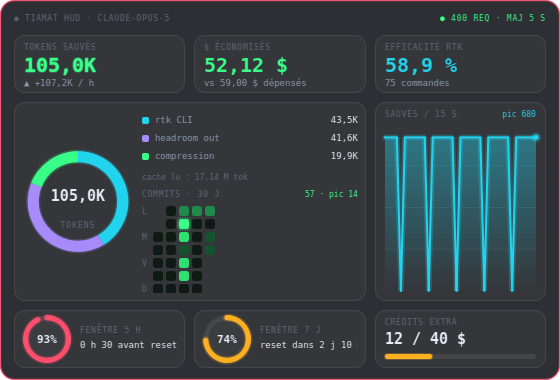
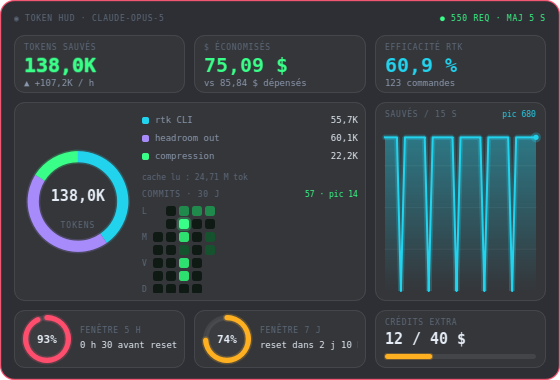
♻ refactor: renomme le paquet en token-hud
Module token_hud, script token-hud, QSettings token-hud/hud et libellé
« TOKEN HUD » dans l'interface. Captures et gif régénérés en conséquence,
README réécrit avec titres emojisés.

diff --git a/token_hud/hud.py b/token_hud/hud.py
@@ -49,7 +49,7 @@ class _Header(QWidget):
         super().__init__(parent)
         self._right = "connexion…"
         self._right_color = theme.DIM2
-        self._left = "◉ tiamat hud"
+        self._left = "◉ token hud"
         self.setFixedHeight(16)
 
     def set_status(self, left: str, right: str, color: QColor) -> None:
@@ -133,7 +133,7 @@ class DashboardView(QWidget):
         model = snap.headroom.model or "claude"
         live = f"{snap.headroom.requests} req · maj 5 s" if snap.headroom.ok else "sources indisponibles"
         self.header.set_status(
-            f"◉ tiamat hud · {model}", f"● {live}",
+            f"◉ token hud · {model}", f"● {live}",
             theme.GREEN if snap.headroom.ok else theme.RED,
         )
 
@@ -207,7 +207,7 @@ class TickerView(QWidget):
         painter = QPainter(self)
         painter.setRenderHint(QPainter.RenderHint.Antialiasing)
         theme.draw_text(
-            painter, QRectF(14, 0, 90, self.height()), "◉ TIAMAT", theme.CYAN,
+            painter, QRectF(14, 0, 90, self.height()), "◉ TOKEN HUD", theme.CYAN,
             theme.mono(8, QFont.Weight.DemiBold, spacing=18), glow=True,
         )
         x = 112.0
@@ -251,9 +251,9 @@ class HudWindow(QWidget):
         self._store = store
         self._drag_offset: QPoint | None = None
         self._alert_level = 0
-        self._settings = QSettings("tiamat", "hud")
+        self._settings = QSettings("token-hud", "hud")
 
-        self.setWindowTitle("Tiamat HUD")
+        self.setWindowTitle("Token HUD")
         self.setWindowFlags(
             Qt.WindowType.FramelessWindowHint
             | Qt.WindowType.WindowStaysOnTopHint
@@ -429,7 +429,7 @@ def tray_icon(parent, window: HudWindow) -> QSystemTrayIcon:
     painter.end()
 
     tray = QSystemTrayIcon(QIcon(pixmap), parent)
-    tray.setToolTip("Tiamat HUD - économies headroom + rtk")
+    tray.setToolTip("Token HUD - économies headroom + rtk")
 
     def refresh_menu(*_args) -> None:
         tray.setContextMenu(build_menu(window, tray_context=True))

diff --git a/tests/test_metrics.py b/tests/test_metrics.py
@@ -10,9 +10,9 @@ import pytest
 
 sys.path.insert(0, str(Path(__file__).resolve().parents[1]))
 
-from tiamat_hud import collectors, theme  # noqa: E402
-from tiamat_hud.gauges import fmt_duration, fmt_tokens, fmt_usd  # noqa: E402
-from tiamat_hud.model import HeadroomMetrics, QuotaWindow, RtkMetrics, Snapshot  # noqa: E402
+from token_hud import collectors, theme  # noqa: E402
+from token_hud.gauges import fmt_duration, fmt_tokens, fmt_usd  # noqa: E402
+from token_hud.model import HeadroomMetrics, QuotaWindow, RtkMetrics, Snapshot  # noqa: E402
 
 
 def test_snapshot_totals_sum_every_saving_source():
@@ -122,7 +122,7 @@ def test_read_rtk_survives_broken_output(monkeypatch):
 def _commits(counts):
     from datetime import date, timedelta
 
-    from tiamat_hud.model import CommitMetrics
+    from token_hud.model import CommitMetrics
 
     today = date(2026, 8, 6)
     days = tuple(

diff --git a/token_hud/__main__.py b/token_hud/__main__.py
@@ -1,4 +1,4 @@
-"""Entry point: `python -m tiamat_hud`."""
+"""Entry point: `python -m token_hud`."""
 
 from __future__ import annotations
 
@@ -14,8 +14,8 @@ from .store import MetricsStore
 
 def main() -> int:
     app = QApplication(sys.argv)
-    app.setApplicationName("tiamat-hud")
-    app.setOrganizationName("tiamat")
+    app.setApplicationName("token-hud")
+    app.setOrganizationName("token-hud")
     app.setQuitOnLastWindowClosed(False)  # the tray keeps the process alive
 
     store = MetricsStore()

diff --git a/token_hud/store.py b/token_hud/store.py
@@ -19,7 +19,7 @@ HISTORY_MAX_AGE_S = 6 * 3600
 
 def history_path() -> Path:
     base = QStandardPaths.writableLocation(QStandardPaths.StandardLocation.AppDataLocation)
-    directory = Path(base or Path.home() / ".local/share/tiamat-hud")
+    directory = Path(base or Path.home() / ".local/share/token-hud")
     directory.mkdir(parents=True, exist_ok=True)
     return directory / "history.json"
 

diff --git a/token_hud/__init__.py b/token_hud/__init__.py
@@ -1,0 +1,3 @@
+"""Token HUD - widget natif neon pour les economies headroom + rtk."""
+
+__version__ = "0.1.0"

diff --git a/README.md b/README.md
@@ -1,18 +1,20 @@
-# Tiamat HUD
+# ⚡ Token HUD
 
 ![Ticker to dashboard and back](images/demo.gif)
 
-Neon, Grafana-flavoured desktop widget for Claude Code economics: how many tokens
-`rtk` and `headroom` saved, how much that is worth, and how much of the Claude
-usage window is left.
+**Token HUD** is a neon, Grafana-flavoured desktop widget for Claude Code
+economics. It answers three questions at a glance: how many tokens `rtk` and
+`headroom` saved you, what that is worth in dollars, and how much of your Claude
+usage window is left before the next reset.
 
 Frameless, always on top, draggable, no taskbar entry. Two modes share one code
-base: a full **dashboard** (560x380) and a collapsed **ticker** bar (720x44).
-Double-click switches between them.
+base: a full **dashboard** (560x380) and a collapsed **ticker** bar (720x44) that
+lives quietly along an edge of the screen. Double-click switches between them,
+as in the animation above.
 
 ![Dashboard](images/dashboard.png)
 
-## Run
+## 🚀 Run
 
 The project is managed with [uv](https://docs.astral.sh/uv/) and driven through a
 Makefile.
@@ -25,12 +27,12 @@ make check  # ruff + pytest
 
 `make help` lists every target (`install`, `dev`, `run`, `test`, `lint`,
 `format`, `check`, `build`, `clean`, `distclean`). Without make: `uv sync` then
-`uv run python -m tiamat_hud`, or install the `tiamat-hud` script.
+`uv run python -m token_hud`, or install the `token-hud` script.
 
 Right-click the widget, or use the tray icon, for: show/hide, mode switch, quit.
-Window position and mode are remembered (`QSettings`, `tiamat/hud`).
+Window position and mode are remembered (`QSettings`, `token-hud/hud`).
 
-## Data sources
+## 🔌 Data sources
 
 Everything is read locally except the commit calendar, which is the only network
 hop and runs just once every 10 minutes.
@@ -53,7 +55,7 @@ Every read runs in a `QThreadPool` worker; the UI thread only receives a
 `Snapshot` via `MetricsStore.snapshotReady`. A missing or malformed source
 degrades to empty metrics and a red liveness dot - it never raises.
 
-## Commit heatmap
+## 🟩 Commit heatmap
 
 A GitHub-style rolling month: one column per calendar week, one row per weekday,
 dark green to neon green. Levels are **quantile** cut-offs like GitHub's own
@@ -74,7 +76,7 @@ panel labels itself `local` in that mode. Both failing leaves the grid empty wit
 
 ![Ticker](images/ticker.png)
 
-## Alerts
+## 🚨 Alerts
 
 ![Alert state](images/alert.png)
 
@@ -82,16 +84,16 @@ The window border is cyan below 70 % usage, solid orange from 70 %, and pulses
 red from 90 % (`theme.WARN_PCT` / `theme.CRIT_PCT`). Quota gauges follow the same
 scale.
 
-## History
+## 📈 History
 
 The trend panel needs points across restarts, so the saved-token series is
 persisted to `history.json` under the Qt app-data location (240 points, one every
 15 s, older than 6 h dropped on load).
 
-## Layout
+## 🗂 Layout
 
 ```
-tiamat_hud/
+token_hud/
   __main__.py    entry point, tray, Ctrl+C handling
   hud.py         frameless window, dashboard + ticker views, tray menu
   gauges.py      QPainter widgets: KPI tile, donut, radial gauge, area, thin bar
@@ -105,7 +107,7 @@ pyproject.toml   uv/hatchling project definition, ruff and pytest config
 Makefile         install, run, test, lint, build, clean
 ```
 
-## Tests
+## ✅ Tests
 
 ```sh
 make test
@@ -114,7 +116,7 @@ make test
 Covers parsing, threshold colours, formatters and graceful degradation - no
 display required.
 
-## Known limits
+## ⚠ Known limits
 
 - Wayland compositors may ignore `WindowStaysOnTopHint` and programmatic moves.
   Run under XWayland (`QT_QPA_PLATFORM=xcb`) if the widget will not stay on top.
